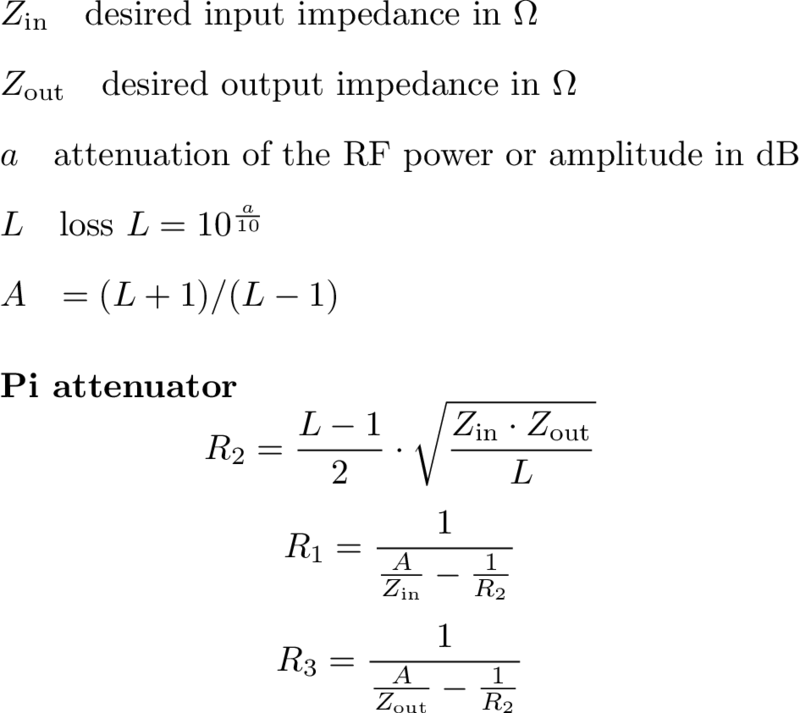
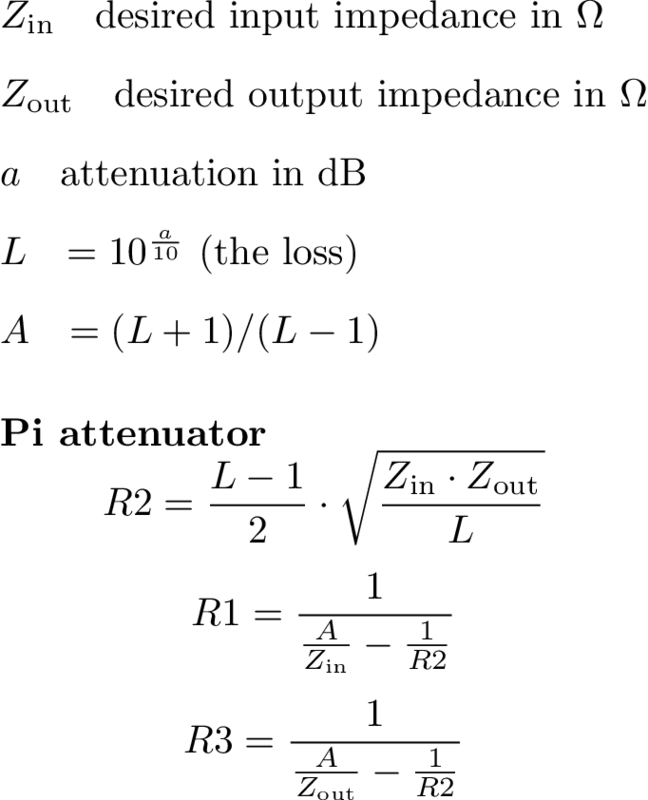
R_n to Rn

diff --git a/pi_formula.tex b/pi_formula.tex
@@ -41,15 +41,22 @@
 \begin{description}[labelindent=0pt,labelsep=10pt]
 \item[$\Zin$] desired input impedance in \si{\ohm}
 \item[$\Zout$] desired output impedance in \si{\ohm}
-\item[$a$] attenuation of the RF power or amplitude in \si{\decibel}
-\item[$L$] loss $L = 10^{\frac{a}{10}}$ 
+\item[$a$] attenuation in \si{\decibel}
+\item[$L$] $= 10^{\frac{a}{10}}$ (the loss)
 \item[$A$] $= (L+1)/(L-1)$
 \end{description}
 
 \paragraph{Pi attenuator}
-\[R_2 = \frac{L - 1}{2} \cdot \sqrt{\frac{\Zin \cdot \Zout}{L}} \]
-\[R_1 = \frac{1}{ \frac{A}{\Zin} -  \frac{1}{R_2}}\]
-\[R_3 = \frac{1}{ \frac{A}{\Zout} -  \frac{1}{R_2}}\]
+
+\[R2 = \frac{L - 1}{2} \cdot \sqrt{\frac{\Zin \cdot \Zout}{L}} \]
+\[R1 = \frac{1}{ \frac{A}{\Zin} -  \frac{1}{R2}}\]
+\[R3 = \frac{1}{ \frac{A}{\Zout} -  \frac{1}{R2}}\]
+
+
+% subscript numbers
+%\[R_2 = \frac{L - 1}{2} \cdot \sqrt{\frac{\Zin \cdot \Zout}{L}} \]
+%\[R_1 = \frac{1}{ \frac{A}{\Zin} -  \frac{1}{R_2}}\]
+%\[R_3 = \frac{1}{ \frac{A}{\Zout} -  \frac{1}{R_2}}\]
 
 %\[R_1 = \frac{1}{\frac{G+1}{\Zin \cdot (G-1)} - \frac{1}{R_2}}\]
 %\[R_2 = \frac{G-1}{2}  \cdot \sqrt{\frac{\Zin \cdot \Zout}{G}}\]
